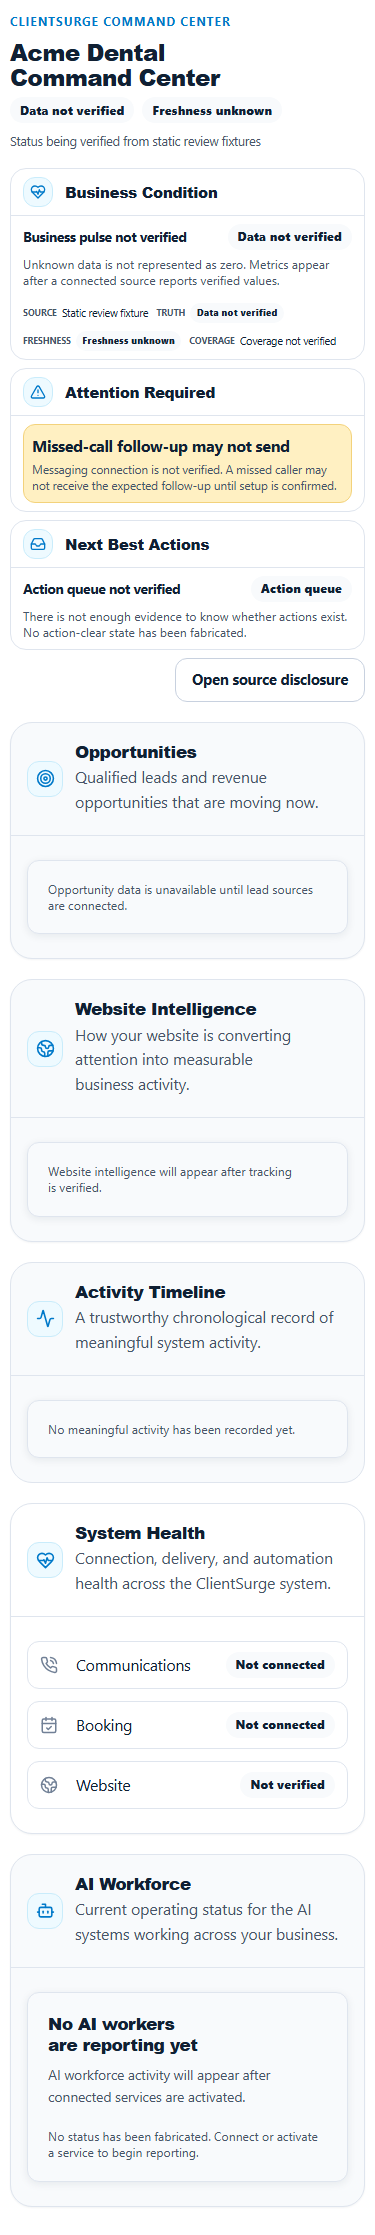
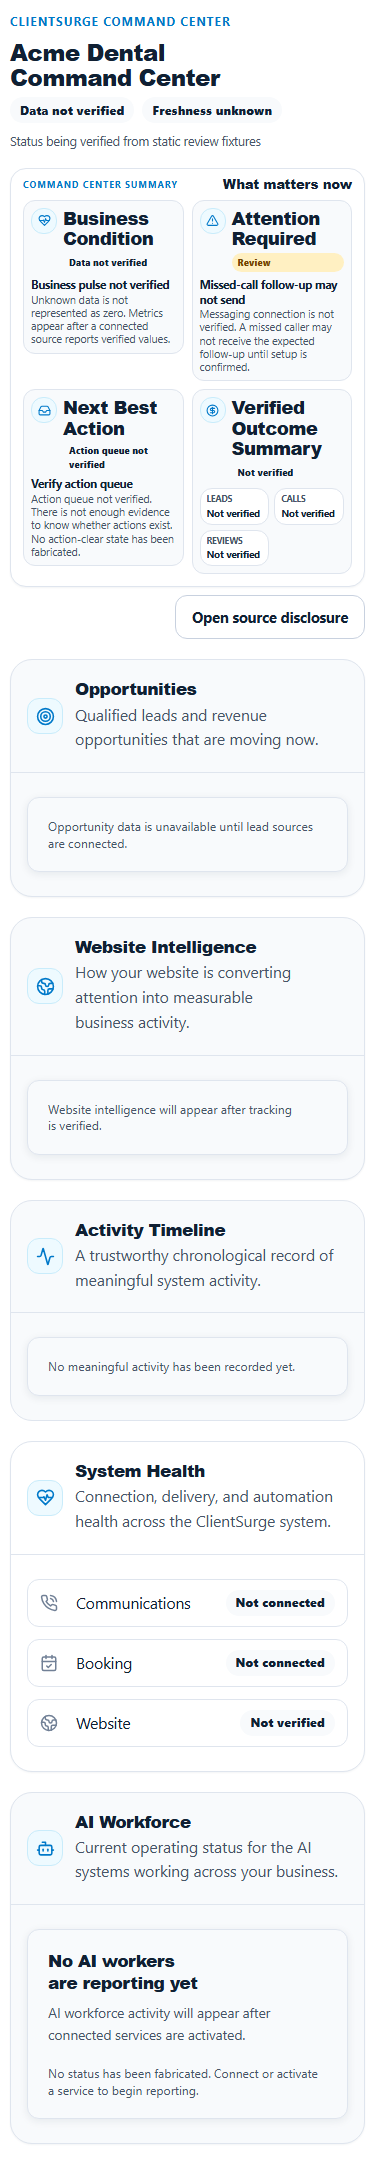
docs(command-center): refresh final viewport evidence

diff --git a/docs/evidence/phase-a-command-center/README.md b/docs/evidence/phase-a-command-center/README.md
@@ -6,6 +6,7 @@ This packet publishes the rendered screenshots required for Worker #3's A-CMD-04
 
 - PR: #1356
 - Branch: `feature/clientsurge-command-center-foundation`
+- Review target before this evidence refresh: `e943f47524712831eb82da6046b9845775d43903`
 - Review route: `/review/phase-a-command-center/`
 - Validator: `node scripts\validate-phase-a-command-center-review.mjs`
 - Screenshot source: `work\phase-a-command-center-review\results`
@@ -34,8 +35,12 @@ The default screenshots show the first-viewport order Worker #3 requested:
 
 1. Business Condition
 2. Attention Required
-3. Next Best Actions
-4. Secondary/contextual modules below the decision stack
+3. Next Best Action
+4. Verified Outcome Summary
+
+Five-second no-scroll test: **PASS**. At each required viewport, the validator confirms Business Condition, Attention Required, Next Best Action, and Verified Outcome Summary are fully contained in the first viewport with matching DOM, heading, and keyboard order.
+
+Secondary/contextual modules remain below the decision stack.
 
 Screenshots:
 
